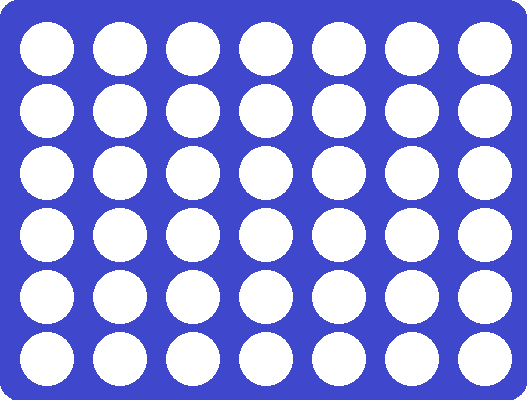
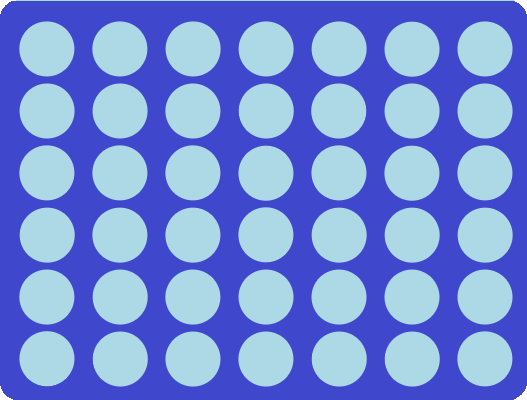
tp2 funcionando todo

diff --git a/TP2/pruebas/index.html b/TP2/pruebas/index.html
@@ -14,12 +14,13 @@
 <!-- ####################################################################################################### -->
 
   <div id="homepage" class="clear">
-    <button type="button" name="button" id='reinicio'> Reiniciar Juego</button>
+    <button type="button" title="a veces tarda pero funciona siempre" name="button" id='reinicio'> Reiniciar Juego</button>
 
   </div>
 
 <div class="wrapper">
-    <p>	<canvas id="canvas" width="1000" height="550" style="border:#000 solid 1px;" />
+    <p>	<canvas id="canvas" width="1000" height="550" style="border:#000 solid 1px;"/>
+      <style>#canvas { background-color: rgb(173,216,230); }</style>
   <div id="copyright" class="clear">
     <p class="fl_left">Interfaces -TUDAI- 2018  <a href="#">Ezequiel Fazio</a></p>
 
@@ -413,7 +414,7 @@ function dibujarTurno(){
     ctx.quadraticCurveTo(15, 130, 50, 125);
     ctx.stroke();
     ctx.closePath();
-    ctx.strokeStyle = '#FFFFFF';
+    ctx.strokeStyle = 'rgb(173,216,230)';
     ctx.lineWidth = 17;
     ctx.beginPath();
     ctx.moveTo(800, 125);
@@ -443,7 +444,7 @@ function dibujarTurno(){
     ctx.quadraticCurveTo(765, 130, 800, 125);
     ctx.stroke();
     ctx.closePath();
-    ctx.strokeStyle = '#FFFFFF';
+    ctx.strokeStyle = 'rgb(173,216,230)';
     ctx.lineWidth = 17;
     ctx.beginPath();
     ctx.moveTo(50, 125);
@@ -464,11 +465,10 @@ function dibujarTurno(){
 }
   function borrarFicha(){
 
-      ctx.fillStyle = "#FFFFFF";
+      ctx.fillStyle = "rgb(173,216,230)";
       ctx.beginPath();
       ctx.moveTo(posMouseX, posMouseY); // ubicamos el cursor en la posicion (10,10)
       ctx.lineTo(posMouseX,posMouseY);
-
       ctx.arc(fichaActual.a.posX+25,fichaActual.a.posY+25,26,0, Math.PI * 2);
       ctx.fill();
       ctx.closePath();
@@ -494,9 +494,11 @@ function comprobarGanadorVertical(){
         contador++;
         if(contador >= 4){
           if(casillas['columna'+i]['fila' +j].ficha.id <= 21){
-              alert("Juego terminado, ganó el Rojo con una linea Vertical"); return true;
+              alert("Juego terminado, ganó el Rojo con una linea Vertical");
+              return true;
           } else{
-              alert("Juego terminado, ganó el Amarillo con una linea Vertical"); return true;
+              alert("Juego terminado, ganó el Amarillo con una linea Vertical");
+              return true;
           }
 
         }
@@ -531,9 +533,11 @@ function comprobarGanadorHorizontal(){
         contador++;
         if(contador >= 4){
           if(casillas['columna'+i]['fila' +j].ficha.id <= 21){
-              alert("Juego terminado, ganó el Rojo con una linea Horizontal"); return true;
+              alert("Juego terminado, ganó el Rojo con una linea Horizontal");
+              return true;
           } else{
-              alert("Juego terminado, ganó el Amarillo con una linea Horizontal"); return true;
+              alert("Juego terminado, ganó el Amarillo con una linea Horizontal");
+              return true;
           }
 
         }
@@ -669,9 +673,11 @@ function comprobarGanadorDiagonal(){
         contador++;
         if(contador >= 4){
           if(todasDiagonales[i][j].ficha.id <= 21){
-              alert("Juego terminado, ganó el Rojo con una linea Diagonal"); return true;
+              alert("Juego terminado, ganó el Rojo con una linea Diagonal");
+              return true;
           } else{
-              alert("Juego terminado, ganó el Amarillo con una linea Diagonal"); return true;
+              alert("Juego terminado, ganó el Amarillo con una linea Diagonal");
+              return true;
           }
 
         }
@@ -763,7 +769,7 @@ canvas.addEventListener('mouseup', function (event) {
   //alert("x= "+ event.clientX + " y= " + event.clientY);
   MousePos(canvas, event);
   var colum = false;
-  if(check){
+  if(check && fichaActual.a != null){
     for (var i = 1; i < 8; i++) {
       if(sectorColumnas[i].contains()){
         colum = true;
@@ -791,13 +797,15 @@ canvas.addEventListener('mouseup', function (event) {
           for (var i = 1; i < 43; i++) {
             fichas[i].bloqueado=true;
               }
+        } else if(todasLasFichasEstanBloqueadas()){  //no hay ganador ni fichas para mover es decir empate
+            alert("Juego terminado, eh aquí un empate");
         }
 
       }
 
 
     }
-    if(!colum) {
+    if(!colum && fichaActual.a != null) {
 
       borrarFicha();
       fichas[fichaActual.a.id].posX = fichas[fichaActual.a.id].posInicialX;
@@ -820,6 +828,15 @@ canvas.addEventListener('mouseup', function (event) {
 }, false);
 function comprobarGanador(){
   return comprobarGanadorHorizontal() || comprobarGanadorDiagonal() || comprobarGanadorVertical();
+}
+function todasLasFichasEstanBloqueadas(){
+  var contador = 0;
+  for (var i = 1; i < 43; i++) {
+    if(fichas[i].bloqueado == true){
+      contador++;
+    }
+  }
+  return contador ==42;
 }
 function reiniciarCasillasDiagonales(){
   d1[1] = casillas['columna1']['fila1'];
@@ -899,7 +916,7 @@ function reiniciarCasillasDiagonales(){
   d11[4] = casillas['columna4']['fila2'];
   d11[5] = casillas['columna3']['fila1'];
 
-  
+
   d12[1] = casillas['columna7']['fila6'];
   d12[2] = casillas['columna6']['fila5'];
   d12[3] = casillas['columna5']['fila4'];
@@ -913,13 +930,14 @@ function reiniciarCasillasDiagonales(){
 dibujarTurno();
 canvas.addEventListener('mousemove', function (event) {
 
-    if (down){
+    if (down && fichaActual.a != null){
         dibujarRecuadros();
         ctx.drawImage(tablero, 220, 140);
         dibujarTurno();
         dibujarTodasLasFichas();
         borrarFicha();
         fichas[fichaActual.a.id].posX = event.clientX - this.offsetLeft -25;
+
         fichas[fichaActual.a.id].posY = event.clientY - this.offsetTop-25;
           //alert(event.clientX);
         ctx.drawImage(fichaActual.a.imag, event.clientX - this.offsetLeft -25,
